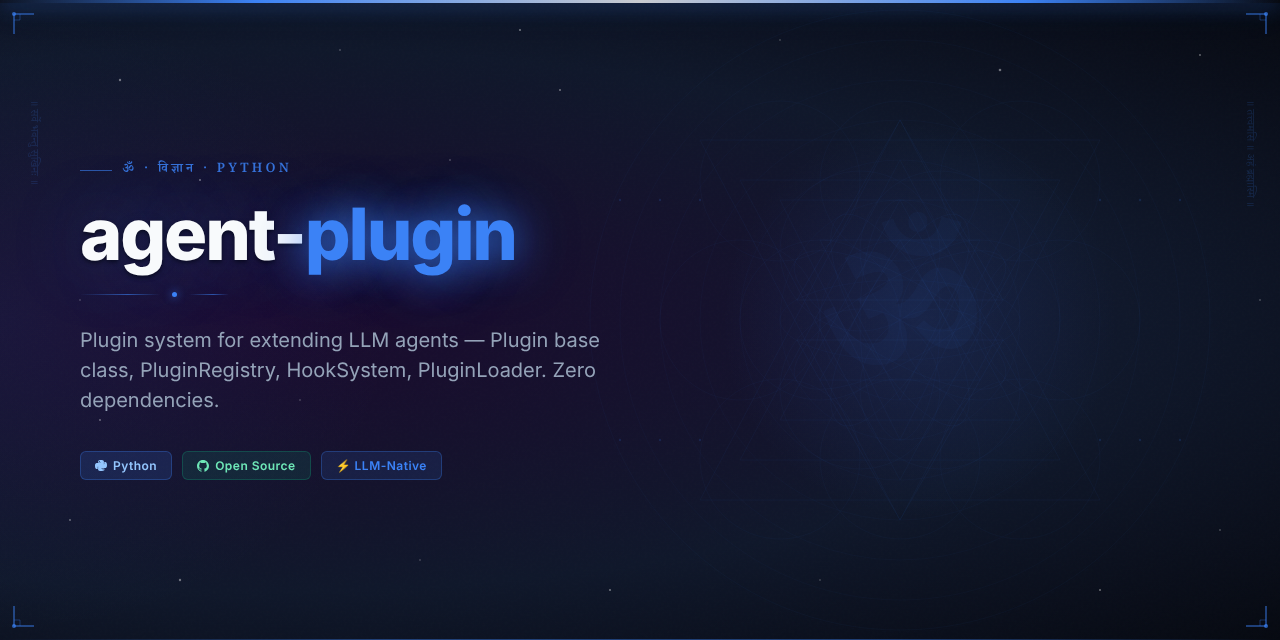
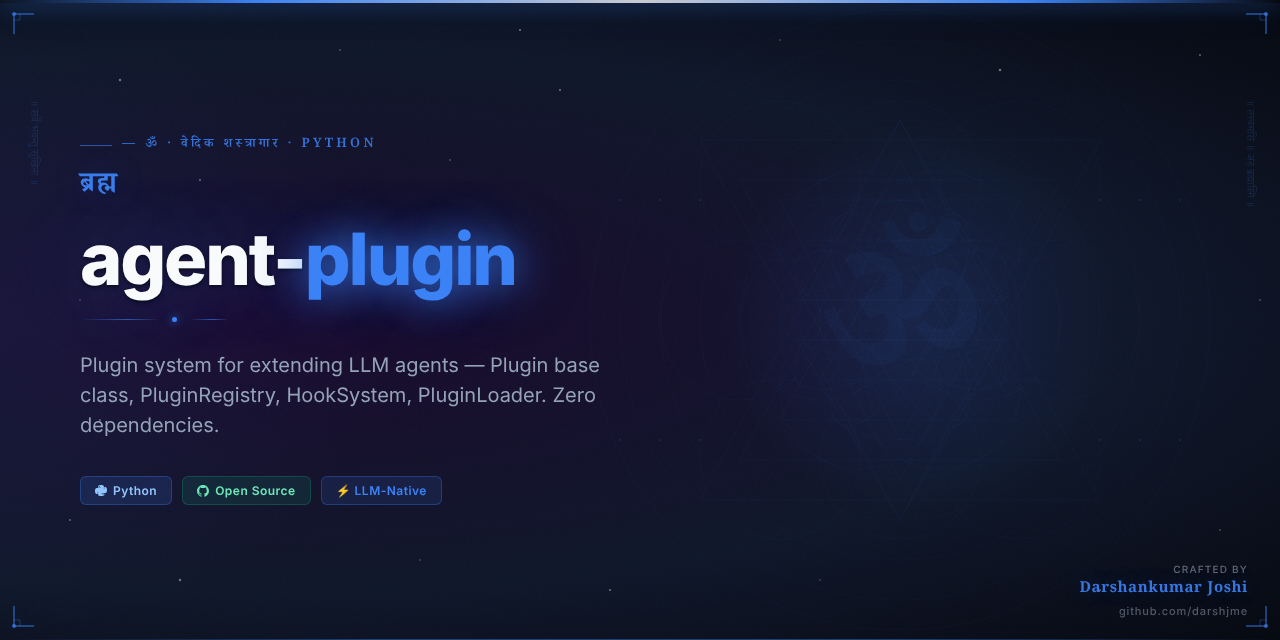
feat: add Vedic Arsenal hero image and updated README
Part of darshjme/arsenal — 100 production-grade Python libraries for LLM agents.
Vedic branding: ancient philosophy meets modern AI engineering.

diff --git a/README.md b/README.md
@@ -1,10 +1,12 @@
 <div align="center">
 
-<img src="assets/agent-plugin-hero.png" alt="agent-plugin — Vedic Arsenal" width="100%" />
+<img src="assets/agent-plugin-hero.png" alt="agent-plugin — Vedic Arsenal by Darshankumar Joshi" width="100%" />
 
 # 🌊 agent-plugin
 
-### *ब्रह्म* — Brahma — the universal intelligence
+<h3><em>ब्रह्म</em></h3>
+
+> *Brahma — the universal intelligence*
 
 **Plugin system for extending LLM agents — Plugin base class, PluginRegistry, HookSystem, PluginLoader. Zero dependencies.**
 
@@ -39,6 +41,19 @@ Or clone directly:
 git clone https://github.com/darshjme/agent-plugin.git
 cd agent-plugin
 pip install -e .
+```
+
+## How It Works
+
+```mermaid
+flowchart LR
+    A[Input] --> B[agent-plugin]
+    B --> C{Process}
+    C -- Success --> D[Output]
+    C -- Error --> E[Handle / Retry]
+    E --> B
+    style B fill:#6b21a8,color:#fff
+    note["Plugin — Zero Dependencies"]
 ```
 
 ## Quick Start
@@ -90,7 +105,7 @@ MIT — use freely, build freely.
 
 <div align="center">
 
-**Built with 🌊 by [Darshankumar Joshi](https://github.com/darshjme)**
+**Built with 🌊 by [Darshankumar Joshi](https://github.com/darshjme)** · [@thedarshanjoshi](https://twitter.com/thedarshanjoshi)
 
 *"कर्मण्येवाधिकारस्ते मा फलेषु कदाचन"*
 *Your right is to action alone, never to the fruits thereof.*
